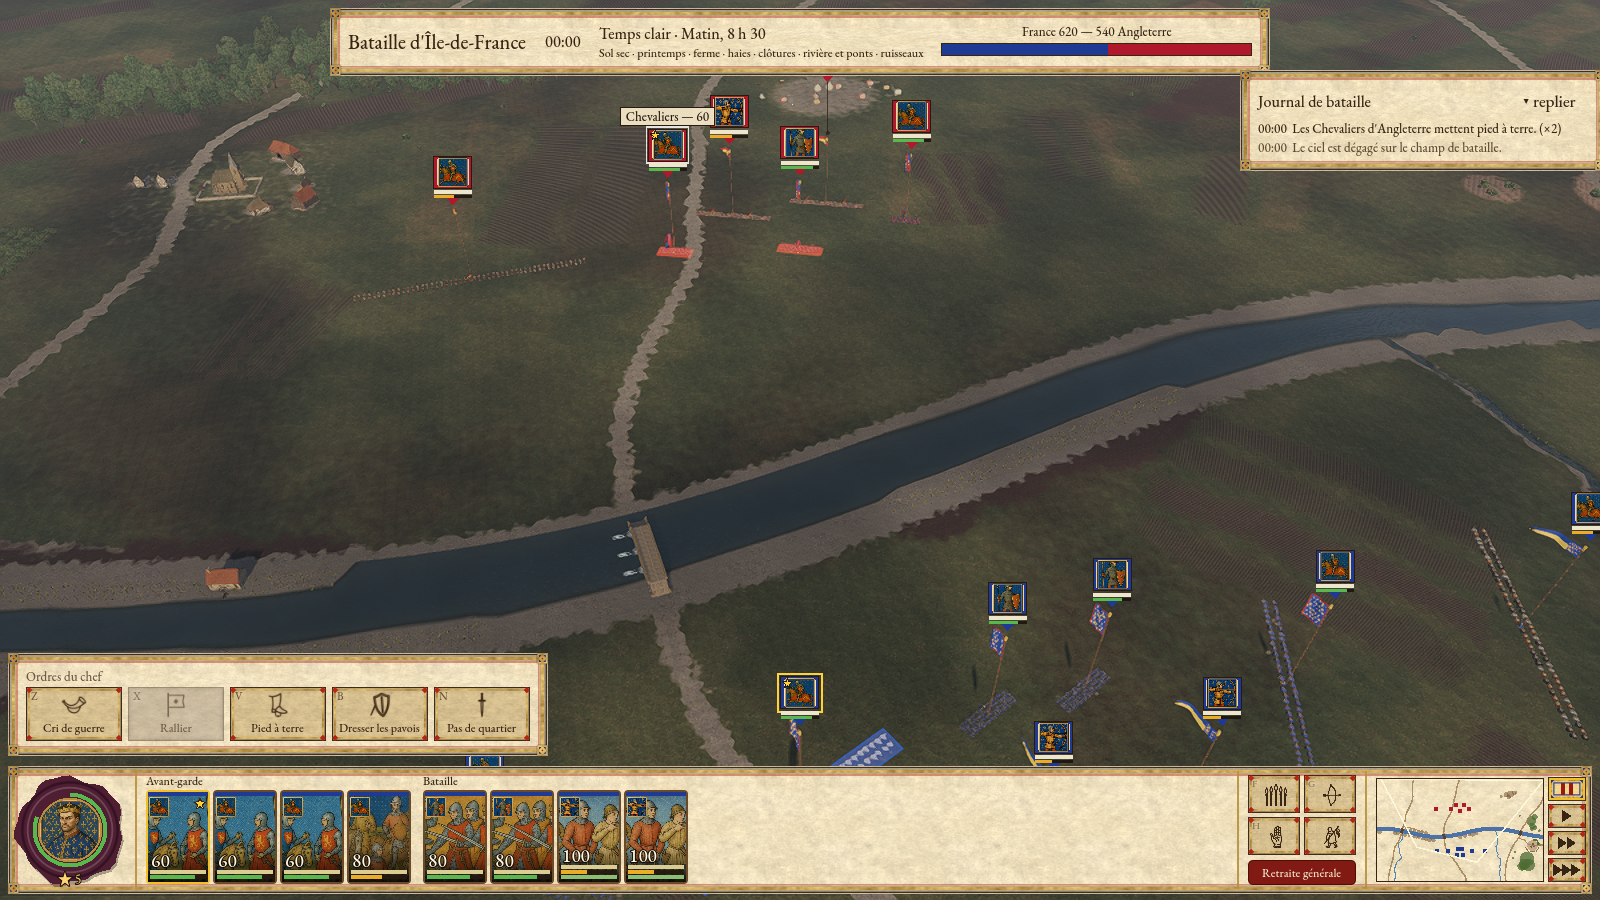
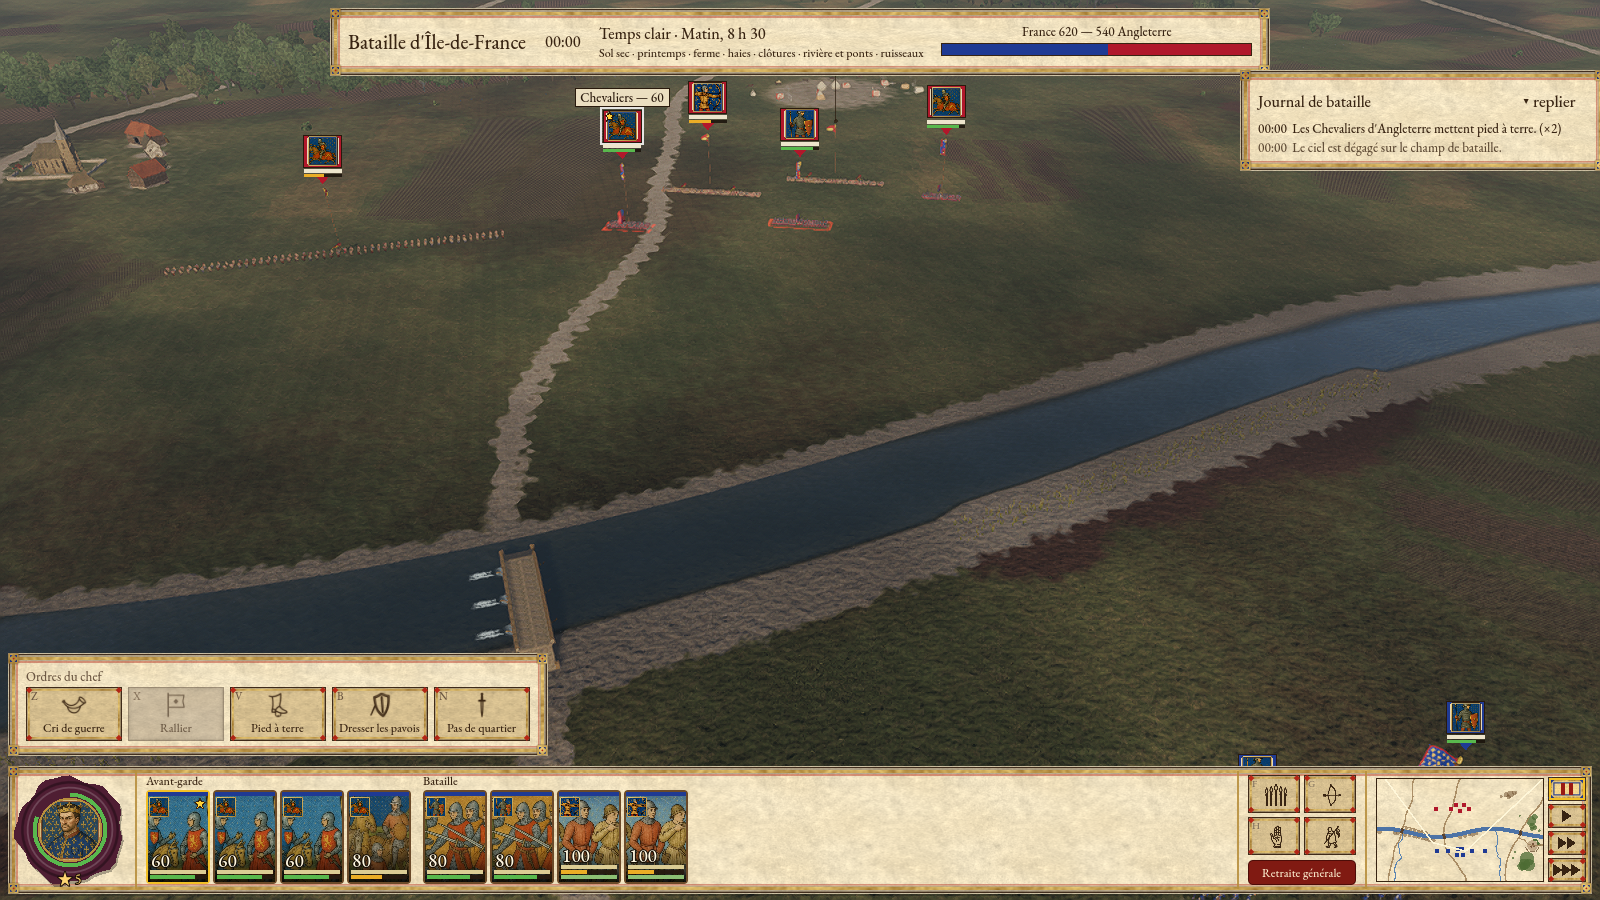
fix(CB-M1): outline decals drew filled rectangles (emission ignores albedo alpha)
Emission texture now has a black transparent background; textures are
built at a fixed 6 px/m so the line is 1 m wide on every formation.
Adds a pixel probe mode to the capture script and a Python measurement.

diff --git a/game/tests/cbm_outline_probe.py b/game/tests/cbm_outline_probe.py
@@ -1,0 +1,57 @@
+"""CB-M1 : mesure du contour de décale sur les rendus de `cbm_outline_shot.gd --probe=<dossier>`.
+
+Pour chaque décale, compare le rendu décales visibles au rendu décales masquées aux points écran
+du cœur (30 % central) et de la bande du bord. Un cadre correct : cœur inchangé (écart faible),
+bord nettement teinté.
+
+Usage : python3 game/tests/cbm_outline_probe.py <dossier>
+"""
+
+import json
+import sys
+from pathlib import Path
+
+from PIL import Image
+
+THRESHOLD = 12.0  # écart moyen RVB (0-255) au-delà duquel un pixel est « teinté »
+
+
+def measure(folder: Path, name: str) -> dict:
+    """Écart moyen et part de pixels teintés au cœur et au bord d'une décale."""
+    info = json.loads((folder / f"probe-{name}.json").read_text())
+    on = Image.open(folder / f"probe-{name}-on.png").convert("RGB")
+    off = Image.open(folder / f"probe-{name}-off.png").convert("RGB")
+    result = {"size_m": [round(value, 1) for value in info["size"]]}
+    pairs = [("", on, off)]
+    baseline = folder / f"probe-{name}-off2.png"
+    if baseline.exists():
+        pairs.append(("noise_", off, Image.open(baseline).convert("RGB")))
+    for prefix, first, second in pairs:
+        for zone in ("core", "edge"):
+            diffs = []
+            for x, y in info[zone]:
+                a = first.getpixel((x, y))
+                b = second.getpixel((x, y))
+                diffs.append(sum(abs(p - q) for p, q in zip(a, b, strict=True)) / 3.0)
+            mean = sum(diffs) / len(diffs) if diffs else 0.0
+            tinted = (
+                sum(1 for d in diffs if d > THRESHOLD) / len(diffs) if diffs else 0.0
+            )
+            result[prefix + zone] = {
+                "points": len(diffs),
+                "mean_diff": round(mean, 1),
+                "tinted": round(tinted, 2),
+            }
+    return result
+
+
+def main() -> None:
+    """Affiche la mesure de chaque décale sondée."""
+    folder = Path(sys.argv[1])
+    for path in sorted(folder.glob("probe-*.json")):
+        name = path.stem.removeprefix("probe-")
+        print(name, json.dumps(measure(folder, name)))
+
+
+if __name__ == "__main__":
+    main()

diff --git a/docs/wip/cb-m1-contours.md b/docs/wip/cb-m1-contours.md
@@ -12,9 +12,10 @@ Branche : `feat/cb-m1-outline`. Plan : `docs/superpowers/plans/2026-09-27-contro
       Ennemie survolée (pointillé rouge), Ennemie ciblée (rouge pulsé par `modulate` dans
       `_process`), Aucun (déroute, absente). Mise à jour sans allocation ; décales cachées
       non touchées ; texture/couleur changées seulement si l'état ou les proportions changent.
-- [x] Textures : générées une fois à la demande et partagées (`static var`), par rapport
-      d'aspect (1 à 10, deux sens) × plein/pointillé, soit 32 textures au plus, pour garder un
-      trait d'épaisseur égale sur le front et sur les flancs.
+- [x] Textures : générées une fois à la demande et partagées (`static var`), à 6 px/m, par
+      taille arrondie au pas de 2 m et par style plein/pointillé. Chaque texture existe en
+      albédo et en émission. Le trait fait 1 m sur toutes les formations (voir le correctif
+      plus bas).
 - [x] `battle_scene.gd` : `outlines` + `_update_outlines()` (survol = `markers.world_hover` +
       membres du repère B2 survolé) ; `_rings` supprimé ; `BattleMeshes.outline` supprimé (plus
       aucun usage).
@@ -23,13 +24,40 @@ Branche : `feat/cb-m1-outline`. Plan : `docs/superpowers/plans/2026-09-27-contro
 - [x] Capture `game/tests/cbm_outline_shot.gd` → `docs/img/cb/cbm1-outline.png` (non relue).
 - [x] `cb_m1_outline_test.gd`, `cb0_input_equivalence_test.gd`, `smoke.gd` : codes de sortie 0.
 
+## Correctif « rectangles pleins » (retour de la session principale)
+
+- **Cause** : dans Godot 4, l'émission d'une décale (`texture_emission`) s'ajoute sans tenir
+  compte de l'alpha de l'albédo. La texture partagée avait un fond transparent BLANC
+  (1, 1, 1, 0) : tout le rectangle émettait la couleur de `modulate` (rouge plein).
+- **Correctif** : paire de textures par clé. Albédo sur fond blanc transparent, pour que les
+  mipmaps ne foncent pas le trait au loin ; émission sur fond NOIR transparent.
+- **Épaisseur constante** : textures à 6 px/m, taille de décale arrondie au pas de 2 m
+  supérieur. Le trait fait 1 m, les tirets 4 m, les espaces 2,5 m.
+- **Lisibilité** : couleur du camp éclaircie de 30 % pour la sélection, émission 0,9.
+- **Mesure sans lecture d'image** : `cbm_outline_shot.gd --probe=<dossier>` (vue plongeante,
+  rendus décales masquées / visibles / masquées), puis `python3 game/tests/cbm_outline_probe.py
+  <dossier>`. Écart RVB moyen, avec la part de points teintés (> 12) :
+
+  | Décale | Zone | Avant | Après | Bruit |
+  |---|---|---|---|---|
+  | Sélectionnée | cœur | 43,2 (100 %) | 1,1 (0 %) | 0,2 |
+  | Sélectionnée | bord | 66,2 (100 %) | 116,1 (100 %) | 0,0 |
+  | Ciblée | cœur | 51,0 (99 %) | 0,6 (0 %) | 0,4 |
+  | Ciblée | bord | 73,9 (100 %) | 82,9 (100 %) | 0,5 |
+
+- **Pièges de la sonde** : `unproject_position` rend des coordonnées de canevas (étirement
+  1440×900), à ramener aux pixels de l'image. Une vue rasante réduit le trait à 2-3 px. Il faut
+  laisser la scène se stabiliser (120 images) avant de comparer.
+- **Capture** : `docs/img/cb/cbm1-outline.png` régénérée, caméra rapprochée (110 à 300 m).
+
 ## Écarts
 
 - `outline_state` prend un 5e argument `player_side` (le dictionnaire d'unité ne dit pas si
   elle est ennemie).
 - Survol par la carte du HUD non branché (seuls terrain et repère B2) : à voir avec CB-M2/CB4.
-- Épaisseur du trait proportionnelle au petit côté de la formation (≈ 1/24), pas constante en
-  mètres.
+- Nombre de textures non borné par rapport d'aspect mais par la taille arrondie. On compte
+  2 textures par taille (pas de 2 m) et par style, créées à la demande et jamais libérées :
+  quelques dizaines par bataille.
 
 ## Prochaine étape
 
